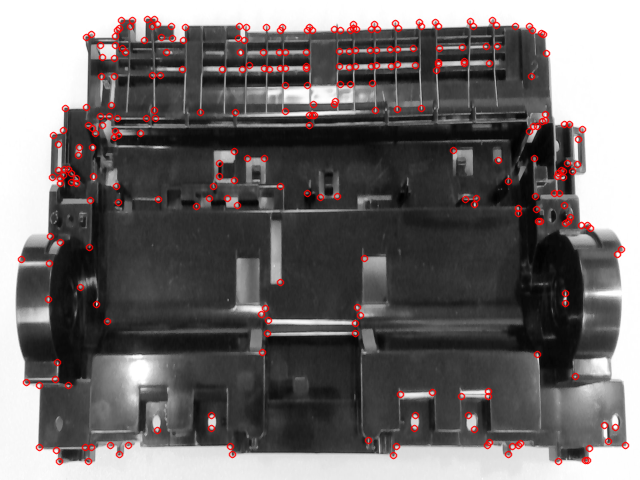
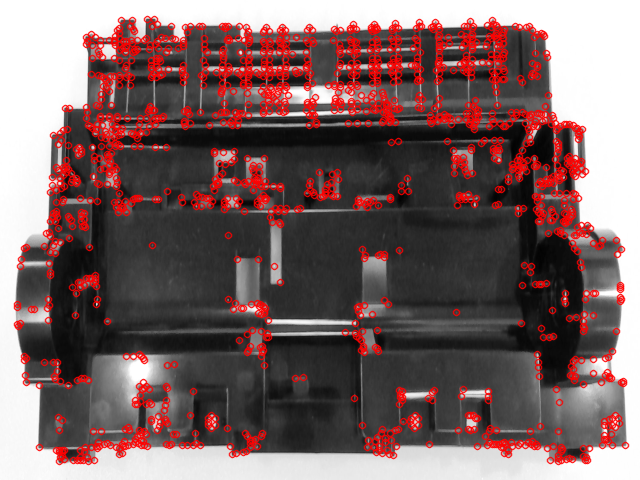
2020.02.06
AddMoreSomethingNew

diff --git a/ShapeDetectOneFigure.py b/ShapeDetectOneFigure.py
@@ -22,8 +22,9 @@ def ShapeDetectForSingleImage(inputImage):
 
     # Call Image and Get Information for Image
 
-    Image = cv2.imread(inputImage)
+    Image = cv2.imread('./img/' + inputImage)
     YPixels, XPixels, channels = Image.shape
+    print('Y Pixels : ', YPixels, 'X Pixels : ', XPixels, 'channels : ', channels)
 
     # Back up Original Image
 
@@ -64,7 +65,7 @@ def ShapeDetectForSingleImage(inputImage):
     dst1 = dst.copy()
     cv2.drawContours(dst1, [box], 0, (0,0,255), 2)
     cv2.imshow('Image After Contour', dst1)
-    cv2.imwrite('./img/ContouredImage.png', dst1)
+    cv2.imwrite('./img/Contoured' + inputImage, dst1)
 
     # Print Coordinate for Normal Image
 
@@ -84,11 +85,16 @@ def ShapeDetectForSingleImage(inputImage):
 
         AngleForImage = math.atan(slopeForHorizontalImage)
 
+        ImageForSmallScreen = ImageForCut.copy()
+        ImageForSmallScreen = cv2.resize(ImageForSmallScreen, dsize=(640, 480), interpolation=cv2.INTER_AREA)
+
+        YPixelsForSmall, XPixelsForSmall, _ = ImageForSmallScreen.shape
+
         print('Angle of Image : ', AngleForImage)
 
         # If tilting angle of product has bigger than 0, below variable will be 0. if not, 1
 
-        if(AngleForNormalImage > 0):
+        if(AngleForImage > 0):
             AngleForImage = -AngleForImage
 
         AngleForImageInDegree = AngleForImage*180/PI
@@ -96,8 +102,8 @@ def ShapeDetectForSingleImage(inputImage):
 
         # Rotates Figures
 
-        M1 = cv2.getRotationMatrix2D((YPixels/2, XPixels/2), AngleForImageInDegree, 1.0)
-        rotatedImage = cv2.warpAffine(ImageForCut, M1, (640, 480))
+        M1 = cv2.getRotationMatrix2D((YPixelsForSmall/2, XPixelsForSmall/2), AngleForImageInDegree, 1.0)
+        rotatedImage = cv2.warpAffine(ImageForSmallScreen, M1, (640, 480))
 
         # Show Rotated Image
 
@@ -105,7 +111,7 @@ def ShapeDetectForSingleImage(inputImage):
 
         # Rotates Image be cut
 
-        rotatedImageForCut = cv2.warpAffine(ImageForCut, M1, (YPixels, XPixels))
+        rotatedImageForCut = cv2.warpAffine(ImageForCut, M1, (XPixels, YPixels))
 
         # Find Smallest area box
 
@@ -117,7 +123,7 @@ def ShapeDetectForSingleImage(inputImage):
         mode = cv2.RETR_EXTERNAL
         method = cv2.CHAIN_APPROX_SIMPLE
         contoursRotatedImage, hierarchyRotatedImage = cv2.findContours(binaryRotatedImage, mode, method)
-        print('len(contours_rotatedDefect) = ', len(contours_rotatedDefect))
+        print('len(contoursRotatedImage) = ', len(contoursRotatedImage))
 
         maxLengthRotatedImage = 0
         kRotatedImage = 0
@@ -146,32 +152,30 @@ def ShapeDetectForSingleImage(inputImage):
         XPixelsForCut = []
         YPixelsForCut = []
 
-        XPixelsForCut.append((min([boxRotatedImage[2][1] - whiteScreen , boxRotatedImage[3][1] - whiteScreen])
-                              * YPixels/480,
-                              max([boxRotatedImage[3][1] + whiteScreen , boxRotatedImage[0][1] - whiteScreen])
-                              * YPixels/480))
+        XPixelsForCut.append((min([boxRotatedImage[2][1] - whiteScreen , boxRotatedImage[3][1] - whiteScreen]),
+                              max([boxRotatedImage[1][1] + whiteScreen , boxRotatedImage[0][1] - whiteScreen])))
 
-        YPixelsForCut.append((min([boxRotatedImage[1][0] - whiteScreen , boxRotatedImage[0][0] - whiteScreen])
-                             * XPixels/640,
-                             max([boxRotatedImage[2][0] + whiteScreen, boxRotatedImage[3][0] + whiteScreen])
-                             * XPixels/640))
+        YPixelsForCut.append((min([boxRotatedImage[1][0] - whiteScreen , boxRotatedImage[0][0] - whiteScreen]),
+                             max([boxRotatedImage[2][0] + whiteScreen, boxRotatedImage[3][0] + whiteScreen])))
 
         print('min and max value for Image : ', XPixelsForCut, YPixelsForCut)
 
-        print('round number = ', int(round(XPixelsForCut[0][0])),round(XPixelsForCut[0][1]),
+        print('round number = ', round(XPixelsForCut[0][0]),round(XPixelsForCut[0][1]),
                                  round(YPixelsForCut[0][0]),round(YPixelsForCut[0][1]), 'For Image')
 
-        CutRotatedImage = rotatedImage[int(round(XPixelsForCut[0][0])):int(round(XPixelsForCut[0][1])),
-                                       int(round(YPixelsForCut[0][0])):int(round(YPixelsForCut[0][1]))]
+        CutRotatedImage = rotatedImageForCut[round(XPixelsForCut[0][0]):round(XPixelsForCut[0][1]),
+                                       round(YPixelsForCut[0][0]):round(YPixelsForCut[0][1])]
 
         rowsRotated, colsRotated, channelsRotated = CutRotatedImage.shape
 
         print('Pixel Size for images : ', rowsRotated , ' X', colsRotated, ' and channels : ', channelsRotated)
 
-        cv2.imwrite('./img/rotatedImage.png', CutRotatedImage)
+        cv2.imshow('CutRotatedImage', CutRotatedImage)
 
-        cv2.waitKey(0)
-        cv2.destroyAllWindows()
+        cv2.imwrite('./img/Cut' + inputImage, CutRotatedImage)
+
+        return './img/Cut'+inputImage
+
     else :
         XPixelsForCut = []
         YPixelsForCut = []
@@ -192,15 +196,12 @@ def ShapeDetectForSingleImage(inputImage):
                                      round(YPixelsForCut[0][0]),round(YPixelsForCut[0][1]), 'For Image')
 
         CutImage = ImageForCut[int(round(XPixelsForCut[0][0])):int(round(XPixelsForCut[0][1])),
-                                           int(round(YPixelsForCut[0][0])):int(round(YPixelsForCut[0][1]))]
+                               int(round(YPixelsForCut[0][0])):int(round(YPixelsForCut[0][1]))]
 
         rowsCut, colsCut, channelsCut = CutImage.shape
 
         print('Pixel Size for images : ', rowsCut , ' X', colsCut, ' and channels : ', channelsCut)
 
-        cv2.imwrite('./img/CutImage.png', CutImage)
+        cv2.imwrite('./img/Cut' + inputImage, CutImage)
 
-        cv2.waitKey(0)
-        cv2.destroyAllWindows()
-
-        return rowsCut, colsCut, channelsCut
+        return './img/Cut'+inputImage

diff --git a/FastFeatureDetectForPixel.py b/FastFeatureDetectForPixel.py
@@ -1,0 +1,128 @@
+import cv2
+import numpy as np
+import math
+
+def GetPixelLocationForNormal(inputImage, thresholdValue = 20):
+    # Call Image
+    Image = cv2.imread(inputImage)
+
+    # Backup Color Image
+    Image_color = Image.copy()
+
+    # Resize both Image
+    Image = cv2.resize(Image, dsize=(640,480), interpolation = cv2.INTER_AREA)
+    Image_color = cv2.resize(Image_color, dsize=(640,480), interpolation = cv2.INTER_AREA)
+
+    # Make One of them Grayscale
+    Image = cv2.cvtColor(Image, cv2.COLOR_BGR2GRAY)
+
+    # Find Key point of Normal Image and show it with smaller threshold Value
+    fastF_normalImage =cv2.FastFeatureDetector.create(threshold=thresholdValue)
+    kp_normalImage = fastF_normalImage.detect(Image)
+    dst_normalImage = cv2.drawKeypoints(Image, kp_normalImage, None, color=(0,0,255))
+    print('len(kp_normalImage)=', len(kp_normalImage))
+    cv2.imshow('dst_normalImage', dst_normalImage)
+    cv2.imwrite('./img/dst_normalImage.png', dst_normalImage)
+
+    # Set 2 Lists to save pixel values for keypoint
+    list_kp_normalImage = []
+
+    # Save pixel values for keypoint
+    for keypoint in kp_normalImage:
+        list_kp_normalImage.append(keypoint.pt)
+
+    # Initialize distances Value
+    distanceUnder1 = 0
+    distanceUnder2 = 0
+    distanceUnder3 = 0
+    distanceOver = 0
+
+    # Initialize Threshold Distance Values
+    thresholdDistance1 = 10
+    thresholdDistance2 = 30
+    thresholdDistance3 = 50
+
+    # Make 2 Lists For save close 3 points
+    triangleForNormalImage = []
+
+    # Find 3 close points and save them to triangleForNormalImage
+    for i in range(len(kp_normalImage)-2):
+        for j in range(i+1, len(kp_normalImage)-1):
+            for m in range(j+1, len(kp_normalImage)):
+                x1_distance = list_kp_normalImage[i][0] - list_kp_normalImage[j][0]
+                y1_distance = list_kp_normalImage[i][1] - list_kp_normalImage[j][1]
+
+                first_distance = math.sqrt(x1_distance ** 2 + y1_distance ** 2)
+
+                x2_distance = list_kp_normalImage[j][0] - list_kp_normalImage[m][0]
+                y2_distance = list_kp_normalImage[j][1] - list_kp_normalImage[m][1]
+
+                second_distance = math.sqrt(x2_distance **2 + y2_distance ** 2)
+
+                total_distance = first_distance + second_distance
+
+                if (total_distance < thresholdDistance1):
+                    distanceUnder1 += 1
+                    triangleForNormalImage.append(list_kp_normalImage[j])
+                elif (total_distance < thresholdDistance2):
+                    distanceUnder2 += 1
+                elif (total_distance < thresholdDistance3):
+                    distanceUnder3 += 1
+                else:
+                    distanceOver += 1
+
+    # Show How many points are close
+    print('Sum of distance between 3 points are under ', thresholdDistance1, ' : ', distanceUnder1)
+    print('Sum of distance between 3 points are under ', thresholdDistance2, ' : ', distanceUnder2)
+    print('Sum of distance between 3 points are under ', thresholdDistance3, ' : ', distanceUnder3)
+    print('Over ', thresholdDistance3, ' : ', distanceOver)
+
+    # Remove Same Points in triangleForNormalImage
+    triangleForNormalImage = list(set(triangleForNormalImage))
+    print(triangleForNormalImage)
+    print('# of the components for under ', thresholdDistance1,' : ', len(triangleForNormalImage))
+    imgcheck = Image_color.copy()
+    for i in range(len(triangleForNormalImage)):
+        cv2.circle(imgcheck, (int(float(triangleForNormalImage[i][0])), int(float(triangleForNormalImage[i][1]))), 10, (0,0,255), 3)
+    cv2.imshow('imgcheck', imgcheck)
+
+    # Ready for pop
+    lengthOfTriangle = len(triangleForNormalImage)
+    popList = []
+
+    # Find close values and save the index to popList
+    for i in range(lengthOfTriangle-1):
+        for j in range(i+1, lengthOfTriangle):
+            distanceXToCheckHowClose = triangleForNormalImage[i][0] - triangleForNormalImage[j][0]
+            distanceYToCheckHowClose = triangleForNormalImage[i][1] - triangleForNormalImage[j][1]
+
+            distance = math.sqrt( distanceXToCheckHowClose ** 2 + distanceYToCheckHowClose ** 2 )
+
+            if distance < 10 :
+                popList.append(j)
+
+    popList = list(set(popList))
+    popList.sort()
+    print('Pop List : ', popList)
+    popNum = 0
+
+    for i in range(len(popList)):
+        triangleForNormalImage.pop(popList[i]-popNum)
+        print('After remove, component of triangle : ', triangleForNormalImage)
+        print('remove order : ', popList[i]-popNum)
+        popNum += 1
+
+    for i in range(len(triangleForNormalImage)):
+        cv2.circle(Image_color, (int(float(triangleForNormalImage[i][0])), int(float(triangleForNormalImage[i][1]))), 10, (0,0,255), 3)
+
+    # Draw Lines For compare distance
+    cv2.line(Image_color, (10,10), (40,10), (0,255,0), 5)
+
+    print('After remove close pixels : ', triangleForNormalImage)
+
+    cv2.imwrite('./img/withCircle_Normal_1.png', Image_color)
+
+    cv2.waitKey(0)
+    cv2.destroyAllWindows()
+
+    return triangleForNormalImage

diff --git a/FindThresholdFromNormalImage.py b/FindThresholdFromNormalImage.py
@@ -1,10 +1,26 @@
-import cv2
-import FastFeatureDetector as FFD
 import ShapeDetectOneFigure as SDOF
+import FastFeatureDetectForPixel as FFDFP
 
-inputImage1 = './img/normal1.png'
 
-SDOF.ShapeDetectForSingleImage(inputImage1)
+
+inputImage1 = 'normal1.png'
+CutinputImage1 = SDOF.ShapeDetectForSingleImage(inputImage1)
+normalPixel = FFDFP.GetPixelLocationForNormal(CutinputImage1)
+
+print(normalPixel)
+
+'''
+inputImage2 = 'normal2.jpg'
+SDOF.ShapeDetectForSingleImage(inputImage2)
+
+inputImage3 = 'defect1.png'
+SDOF.ShapeDetectForSingleImage(inputImage3)
+
+inputImage3 = 'defect2.jpg'
+SDOF.ShapeDetectForSingleImage(inputImage3)
+'''
+
+
 '''
 firstImage = './img/rotatedNormalImage.png'
 secondImage = './img/rotatedDefectImage.png'
